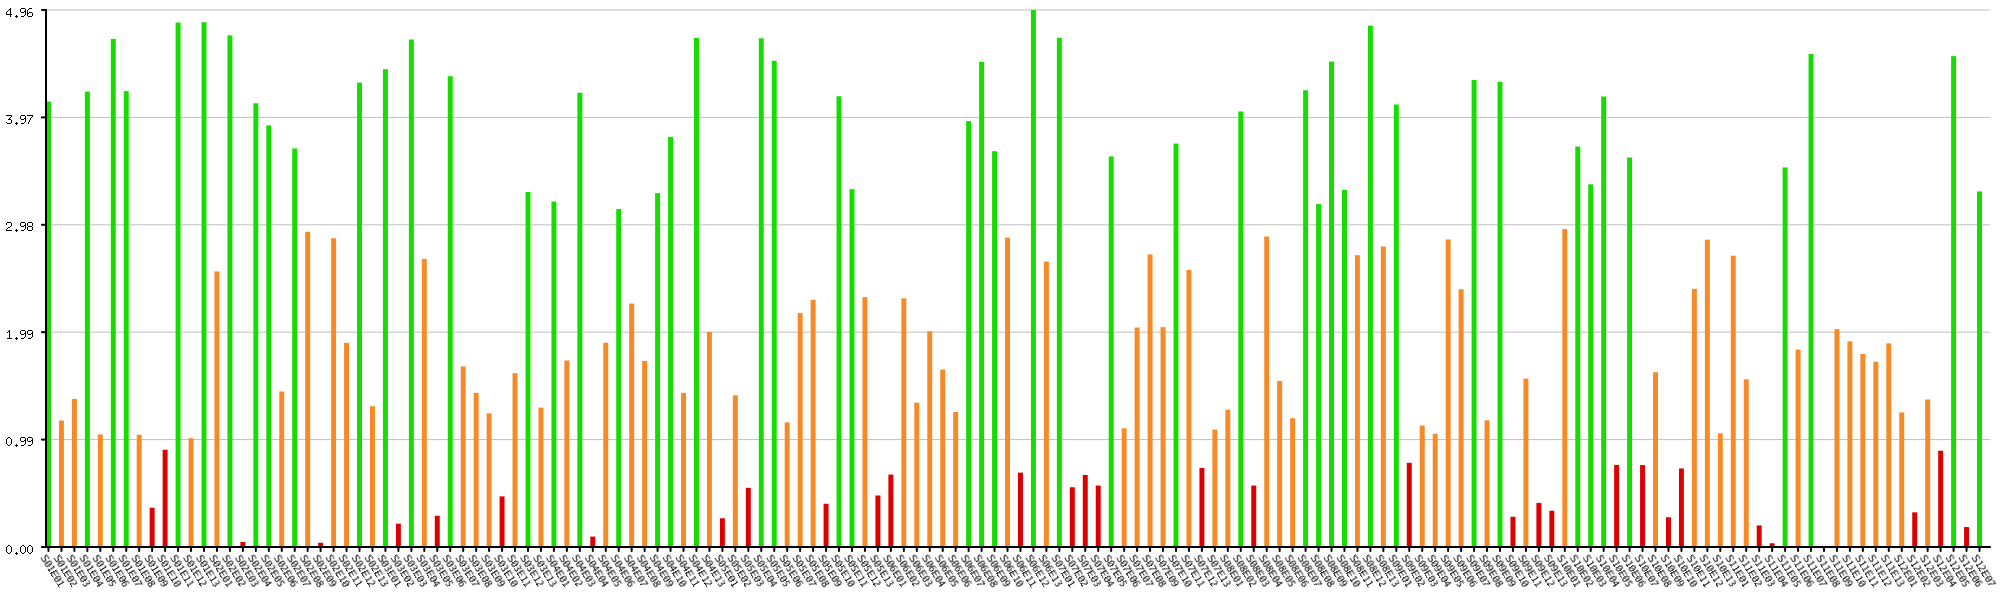
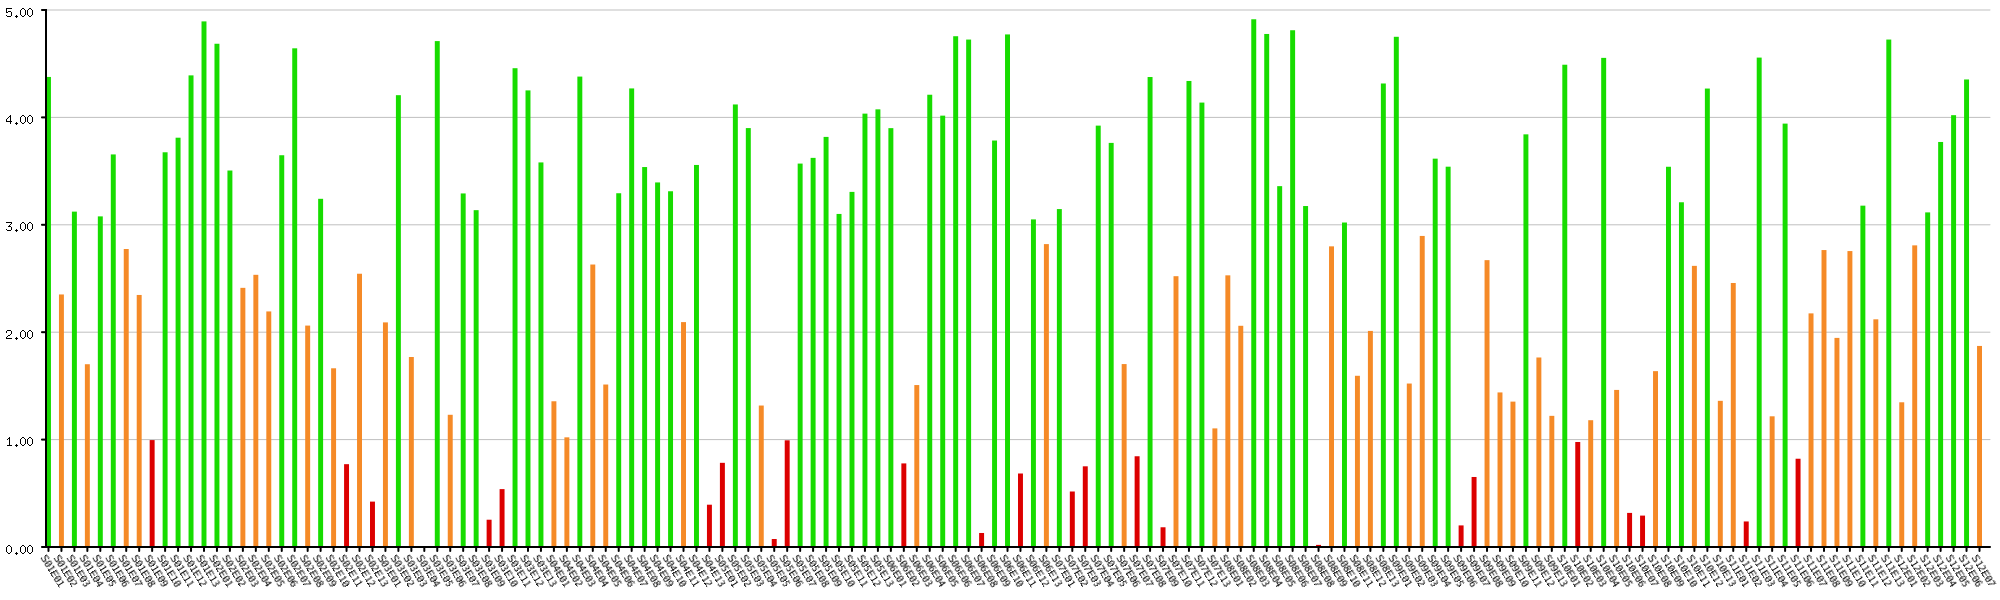
Added fixed size Y scale

diff --git a/scale.go b/scale.go
@@ -129,3 +129,36 @@ func (s *StackedYScale) Position(v float64, b BoundingBox) float64 {
 	min, max := s.MinMax()
 	return b.MapY(min, max, v)
 }
+
+func NewFixedYScale(numTicks int, maxValue float64) *FixedYScale {
+	return &FixedYScale{
+		numTicks: numTicks,
+		fixedMax: maxValue,
+	}
+}
+
+type FixedYScale struct {
+	numTicks int
+	fixedMax float64
+}
+
+func (r *FixedYScale) MinMax() (float64, float64) {
+	return 0, r.fixedMax
+}
+
+func (r *FixedYScale) NumTicks() int {
+	return r.numTicks //todo: should scale based on the canvas size
+}
+
+func (r *FixedYScale) Labels() []Label {
+	labels := make([]Label, r.NumTicks()+1)
+	for i := 0; i <= r.NumTicks(); i++ {
+		labels[i] = Label{fmt.Sprintf("%0.2f", (r.fixedMax/float64(r.NumTicks()))*float64(i)), i}
+	}
+	return labels
+}
+
+func (r *FixedYScale) Position(v float64, b BoundingBox) float64 {
+	min, max := r.MinMax()
+	return b.MapY(min, max, v)
+}

diff --git a/examples/ratings/main.go b/examples/ratings/main.go
@@ -31,7 +31,7 @@ func main() {
 		gochart.GenRandomTestData(numPoints, 5),
 	)
 
-	yScale := gochart.NewYScale(5, series)
+	yScale := gochart.NewFixedYScale(5, 5)
 	xScale := gochart.NewXScale(series, 0)
 
 	bars := gochart.NewBarsPlot(yScale, xScale, series, gochart.PlotPointSize(2), gochart.PlotStyle(
@@ -39,7 +39,7 @@ func main() {
 	)
 
 	bars.SetStyleFn(func(v float64) style.Opts {
-		if v < 1 {
+		if v <= 1 {
 			return style.Opts{style.Color(color.RGBA{R: 220, A: 255})}
 		}
 		if v > 1 && v < 3 {
